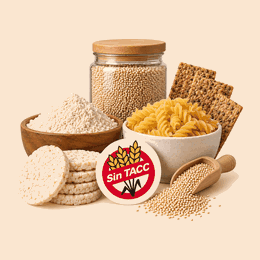
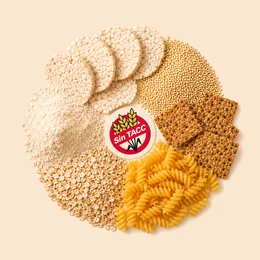
Fotos propias en los tres combos y en Sin TACC, y se rearma Cocina Cotidiana
- Ícono nuevo de la categoría Sin TACC y las tres fotos de combo que hizo Juani,
  con el fondo llevado al de las tarjetas (109 KB las cuatro).
- Cocina Cotidiana pasa a garbanzos, semillas de zapallo, algarroba y pasta de
  maní, como muestra la foto nueva. Salen la harina y la salsa.
- Se agrega Algarroba en Polvo al catálogo porque no existía y el combo la usa.
  Su costo es de referencia y le falta la foto.

diff --git a/index.html b/index.html
@@ -18,7 +18,7 @@
 <link rel="preconnect" href="https://fonts.googleapis.com">
 <link rel="preconnect" href="https://fonts.gstatic.com" crossorigin>
 <link href="https://fonts.googleapis.com/css2?family=Playfair+Display:wght@500;600&family=Karla:wght@400;500;600&display=swap" rel="stylesheet">
-<link rel="stylesheet" href="css/estilos.css?v=20260903y">
+<link rel="stylesheet" href="css/estilos.css?v=20260904a">
 </head>
 <body>
 
@@ -163,7 +163,7 @@
 
 <div class="toast" id="toast" role="status" aria-live="polite"></div>
 
-<script src="js/datos.js?v=20260903y"></script>
-<script src="js/app.js?v=20260903y"></script>
+<script src="js/datos.js?v=20260904a"></script>
+<script src="js/app.js?v=20260904a"></script>
 </body>
 </html>
